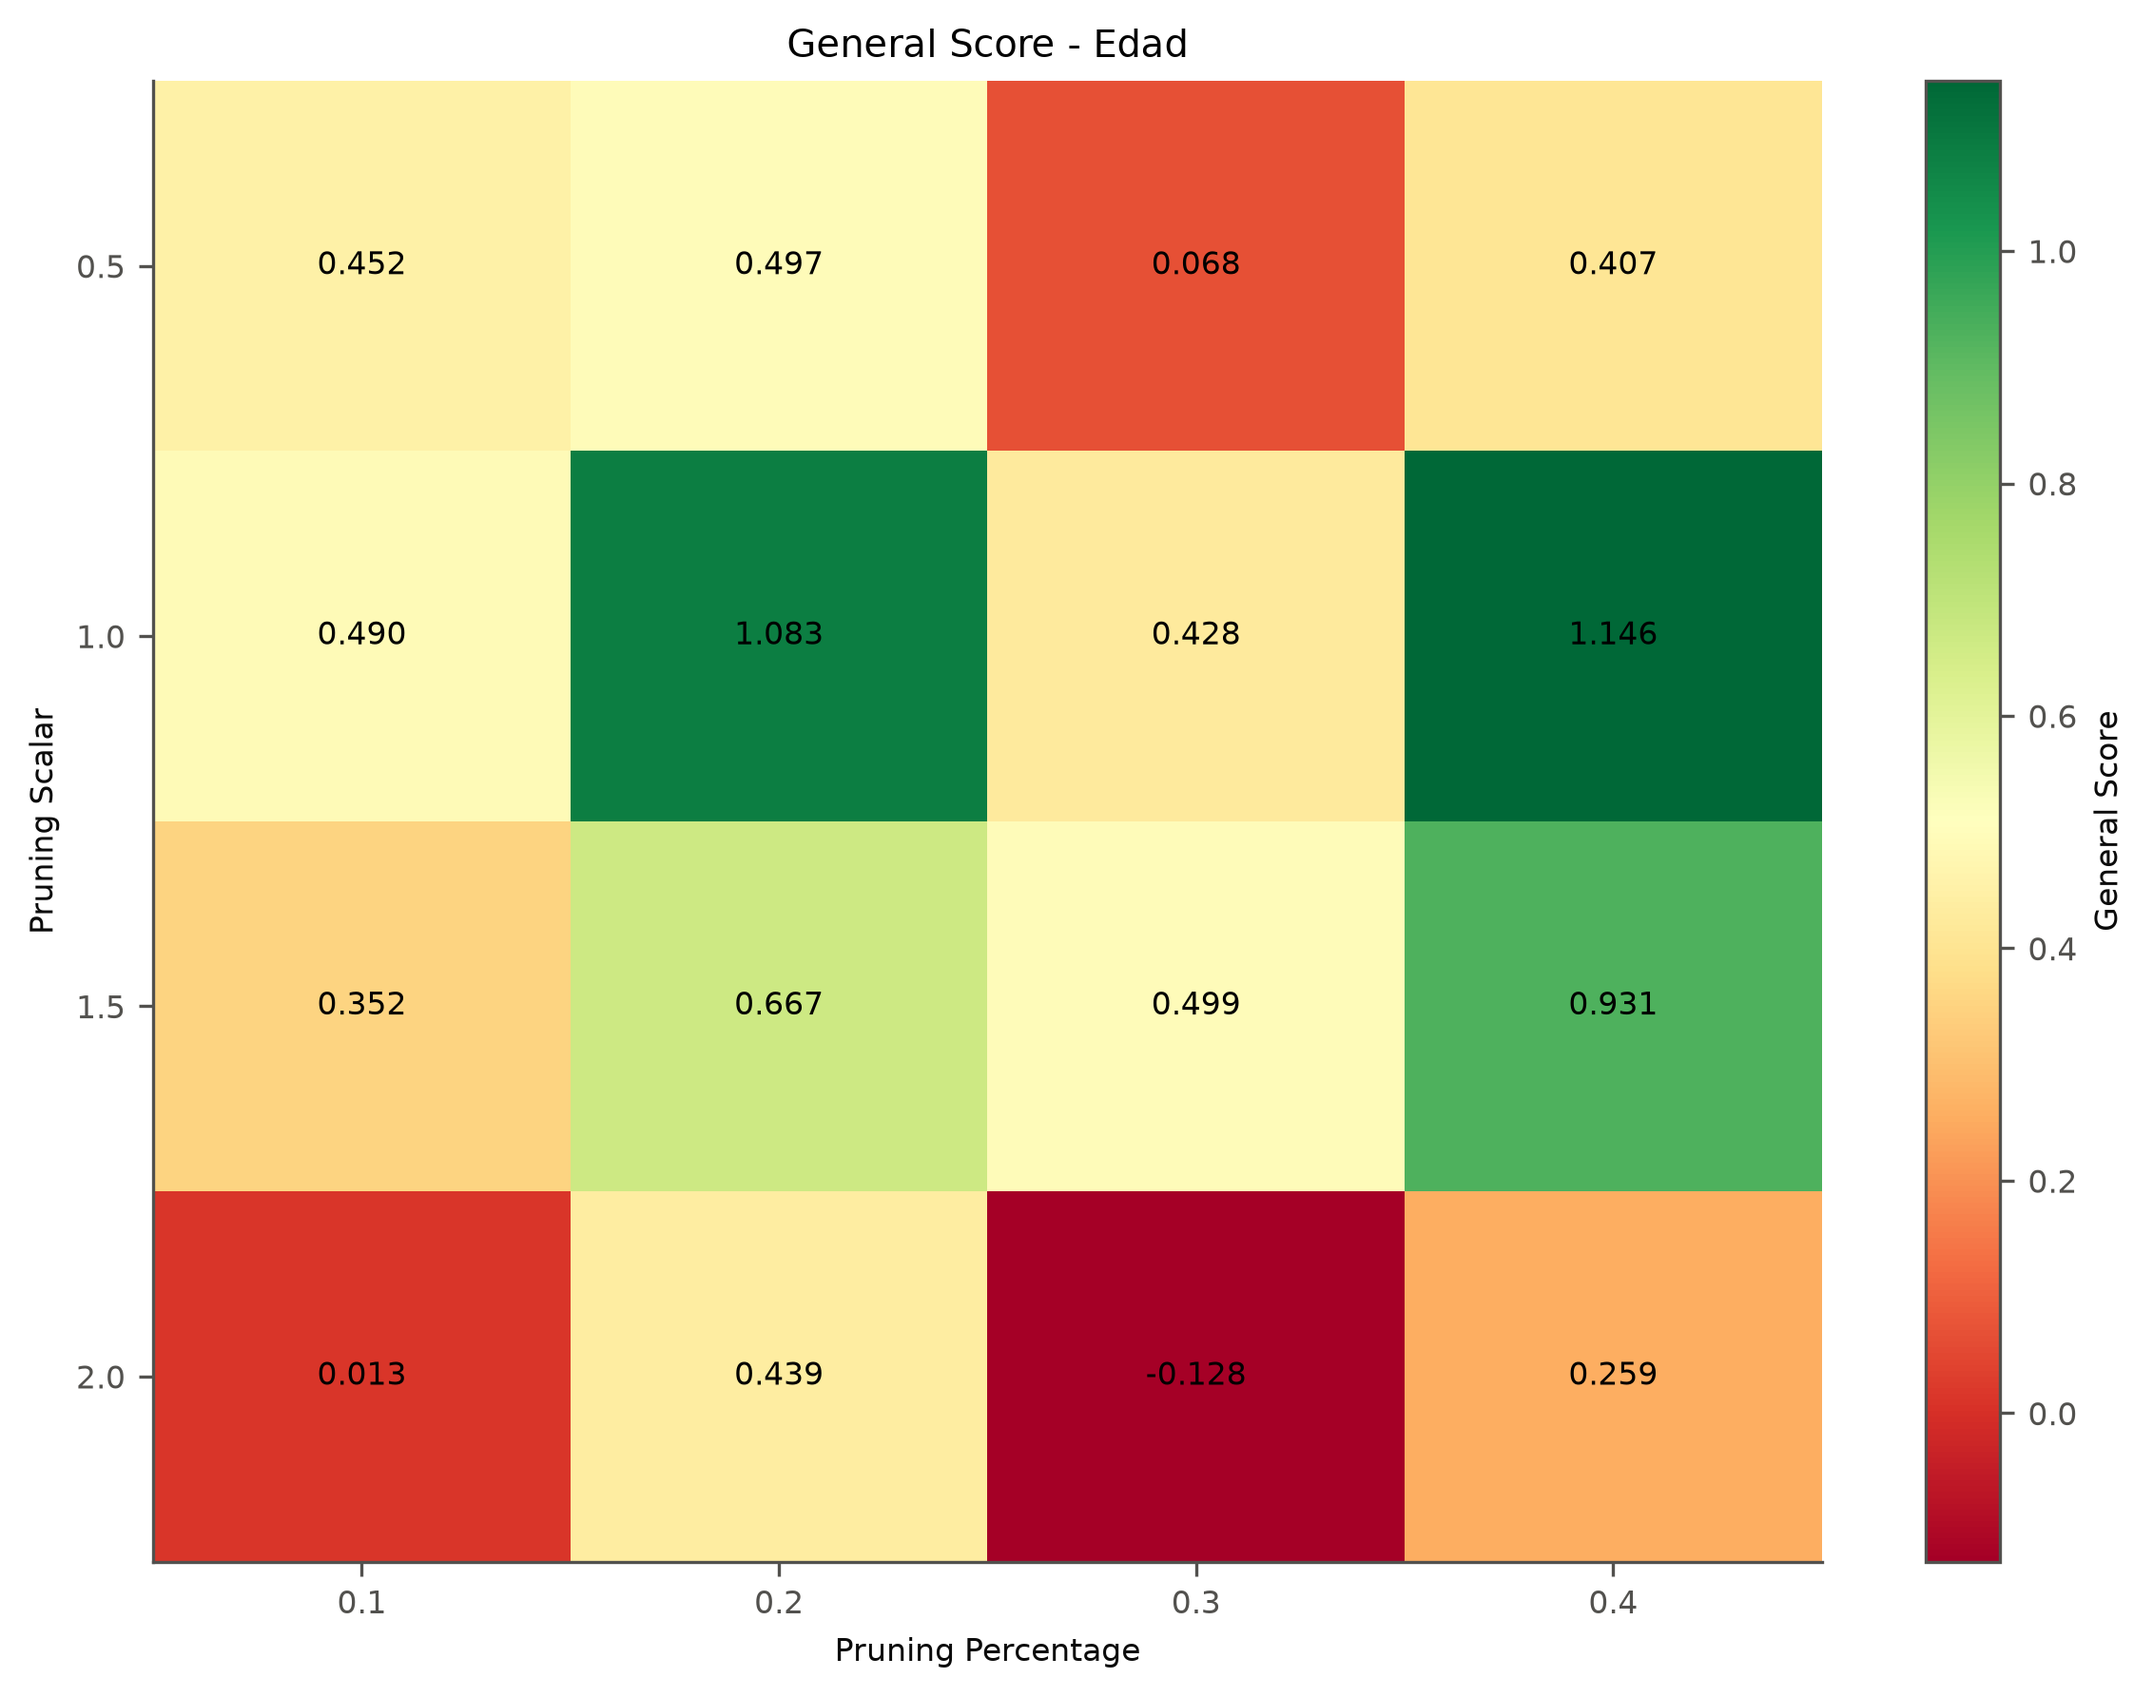
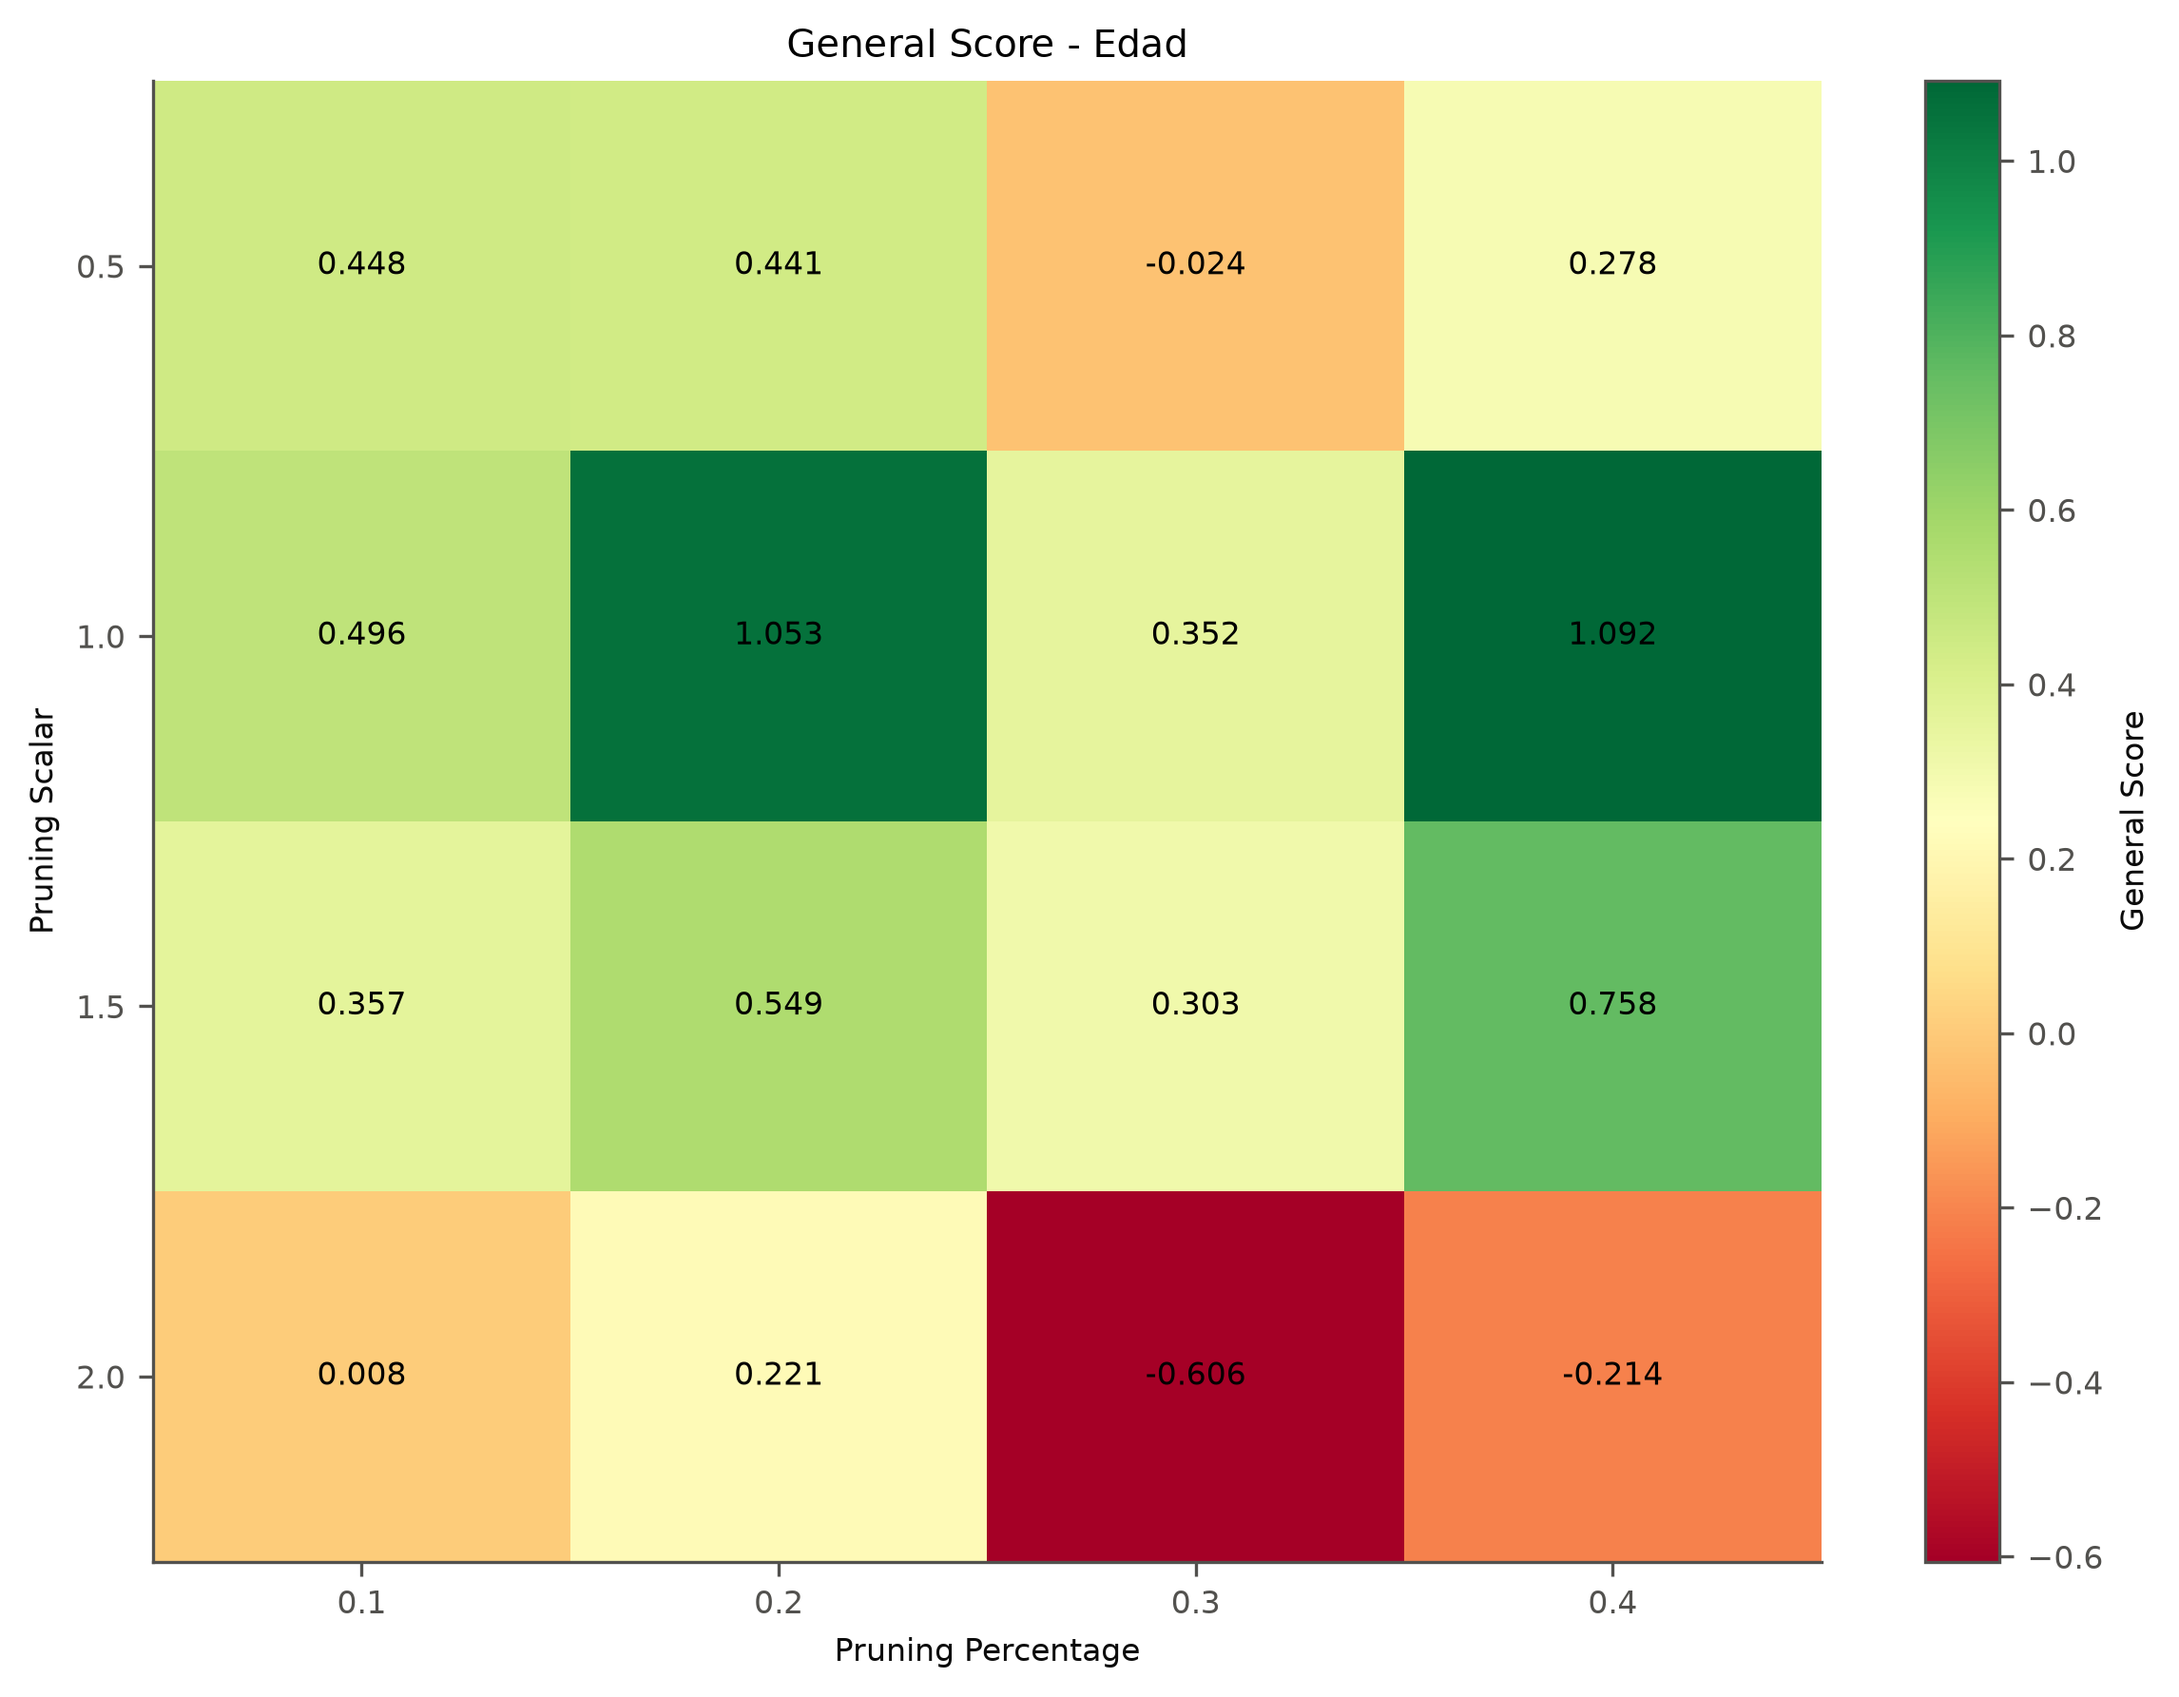
Cambio en ponderacion score

diff --git a/score_final.py b/score_final.py
@@ -105,7 +105,7 @@ def score_model (original_accuracy, original_F1, original_MI_neurons, original_M
     F1_score = (pruned_F1 - original_F1) / original_F1
     MI_score_neurons = - (pruned_MI_neurons - original_MI_neurons) / (original_MI_neurons)
     MI_score_layers = - (pruned_MI_layers - original_MI_layers) / original_MI_layers
-    return MI_score_neurons + MI_score_layers + accuracy_score + F1_score
+    return MI_score_neurons + MI_score_layers + 1.5 *(accuracy_score + F1_score)
 
 
 def comparison_MI (original_MI_selected, pruned_MI_selected, original_MI_attribute1, pruned_MI_attribute1, original_MI_attribute2, pruned_MI_attribute2):

diff --git a/evaluate_prune.py b/evaluate_prune.py
@@ -77,7 +77,7 @@ if __name__ == "__main__":
         )
 
         # KSG, per neuron
-        """"result = mi_table(model, x, y, Z)
+        result = mi_table(model, x, y, Z)
         result.to_csv(NEURON_CSV, index=False)
         output_result = output_mi_table(model, x, y, Z)
         output_result.to_csv(OUTPUT_CSV, index=False)
@@ -97,4 +97,4 @@ if __name__ == "__main__":
         plot_mine(mine, MINE_FIG)
         print(f"saved {MINE_CSV}, {MINE_FIG}")
         print("\nMINE per layer (bits):")
-        print(mine.round(4))"""
+        print(mine.round(4))
